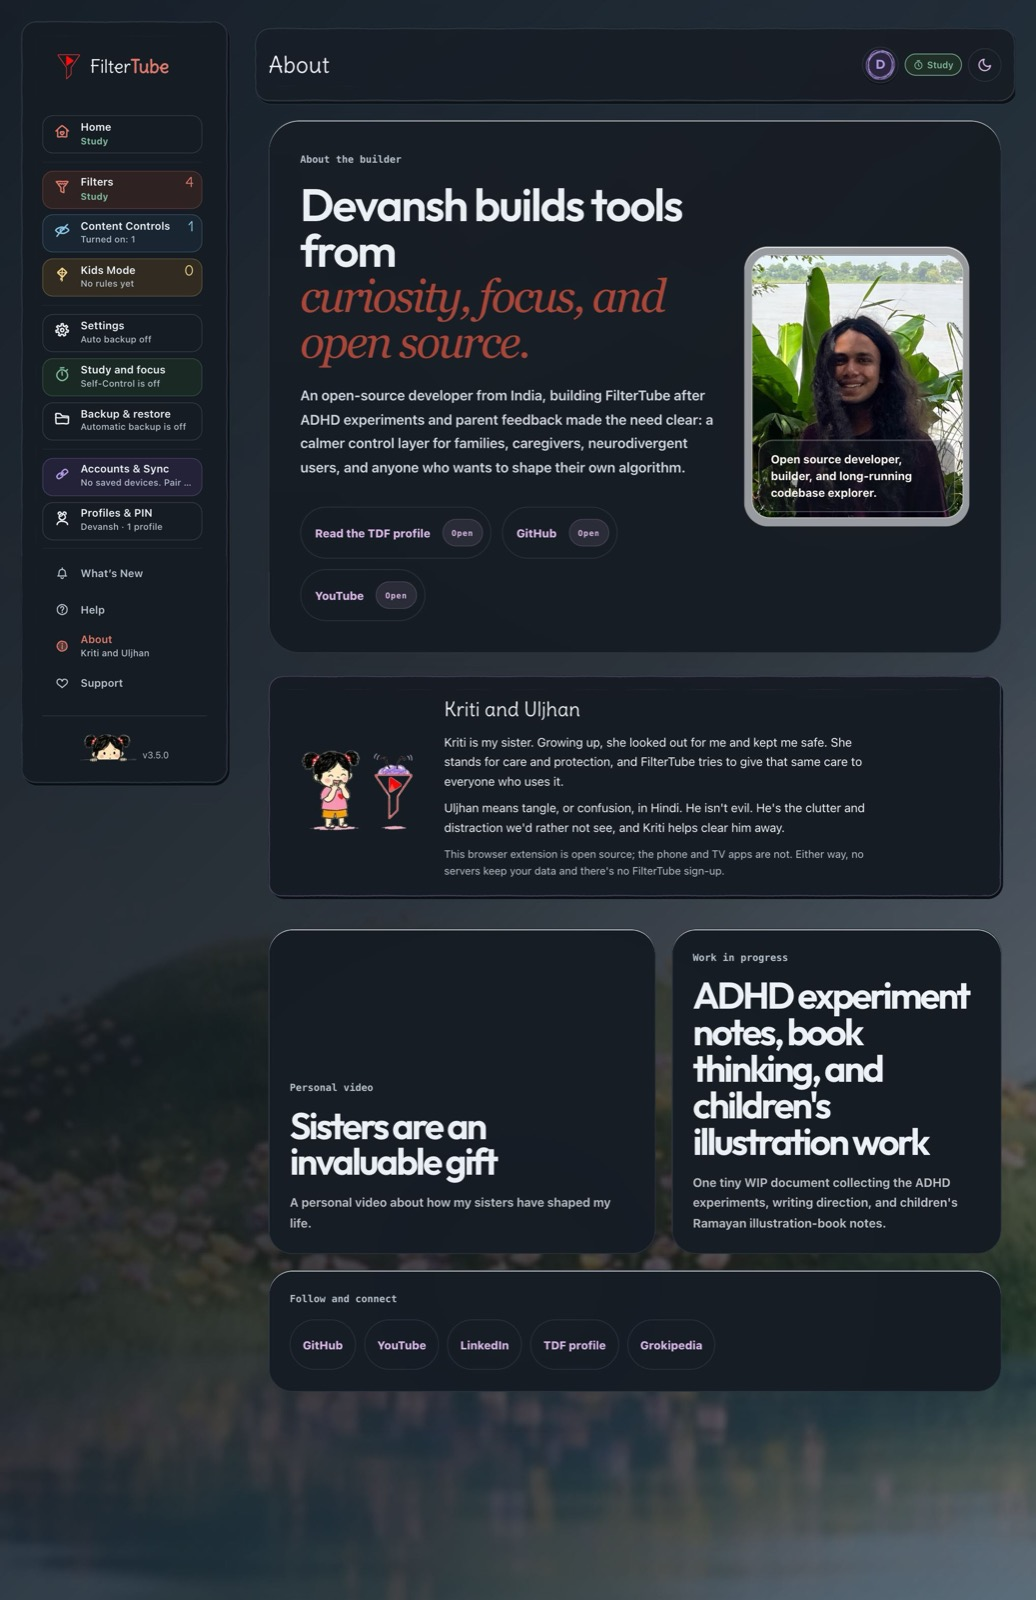
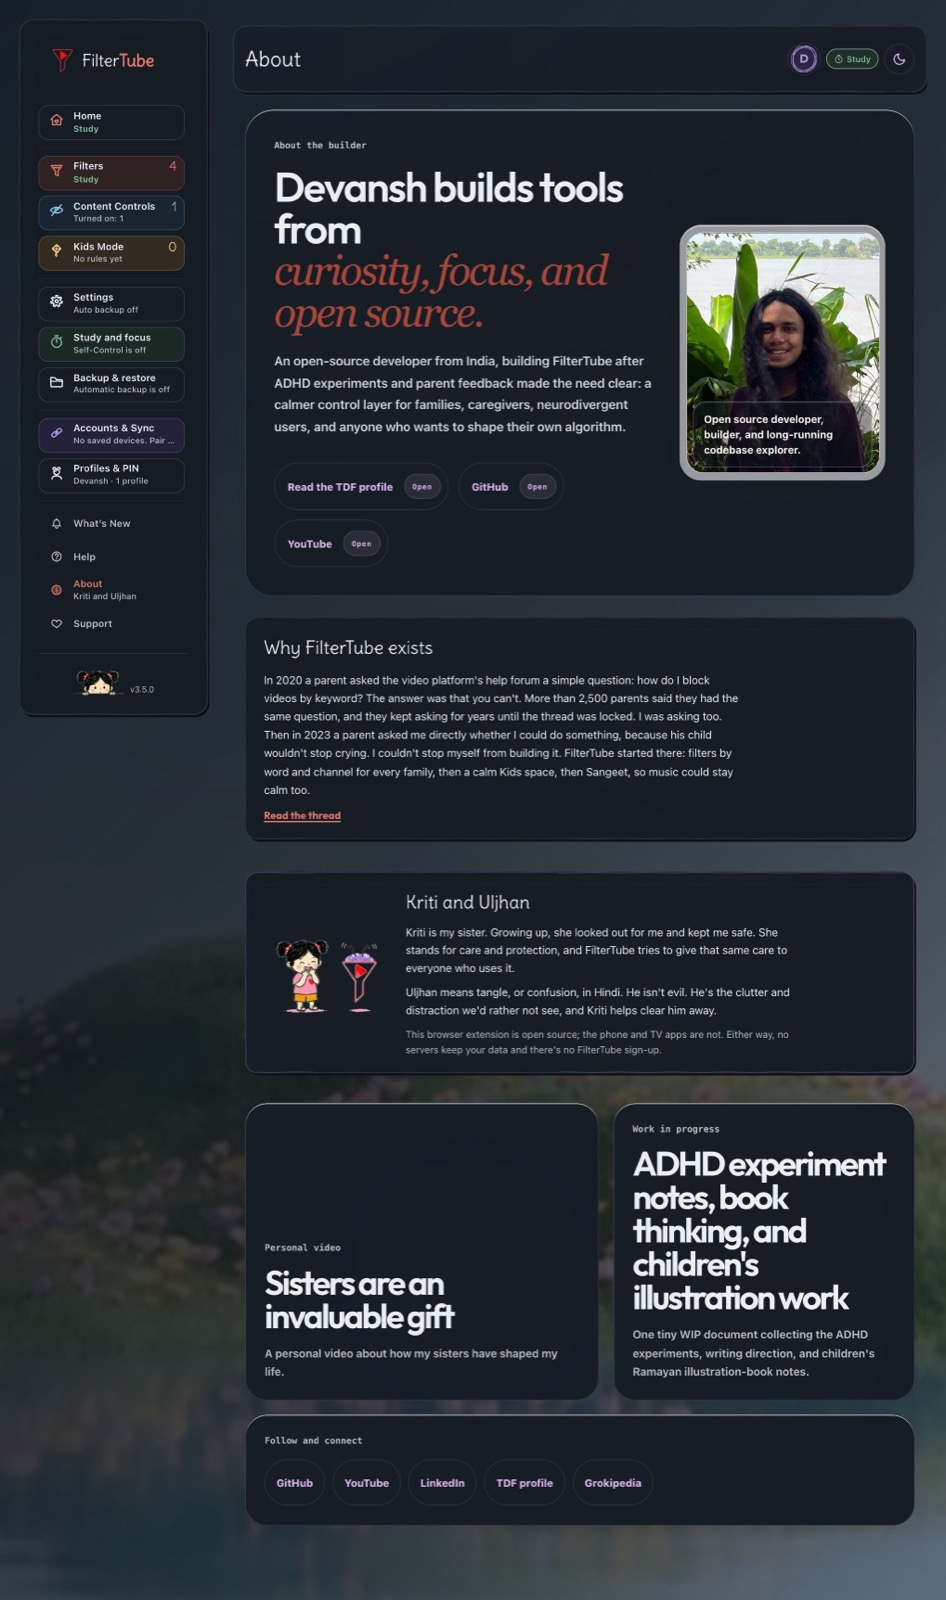
feat(about): Why FilterTube exists, before Kriti and Uljhan
The approved story, as the apps tell it: the 2020 help-forum question about
blocking by keyword that 2,500 parents asked until the thread was locked, the
parent in 2023 whose child would not stop crying, and then filters, the Kids
space and Sangeet. "Read the thread" opens the forum thread in a new tab. The
platform is not named in the text. Translated in all 38 catalogs; Sangeet stays
Sangeet.

diff --git a/html/tab-view.html b/html/tab-view.html
@@ -2690,6 +2690,12 @@
                             </figure>
                         </section>
 
+                        <section class="ft-about-why" aria-labelledby="ftAboutWhyTitle">
+                            <h3 id="ftAboutWhyTitle" class="ft-about-why__title" data-ft-i18n="about.why.title">Why FilterTube exists</h3>
+                            <p data-ft-i18n="about.why.body">In 2020 a parent asked the video platform's help forum a simple question: how do I block videos by keyword? The answer was that you can't. More than 2,500 parents said they had the same question, and they kept asking for years until the thread was locked. I was asking too. Then in 2023 a parent asked me directly whether I could do something, because his child wouldn't stop crying. I couldn't stop myself from building it. FilterTube started there: filters by word and channel for every family, then a calm Kids space, then Sangeet, so music could stay calm too.</p>
+                            <a class="ft-about-why__link" href="https://support.google.com/youtubekids/thread/54509605/how-to-block-videos-by-keyword-or-tag?hl=en" target="_blank" rel="noopener noreferrer" data-ft-i18n="about.why.link">Read the thread</a>
+                        </section>
+
                         <section class="ft-about-duo" data-ft-duo-story aria-labelledby="ftAboutDuoTitle">
                             <div class="ft-about-duo__art" aria-hidden="true">
                                 <img class="ft-about-duo__picture" src="../assets/images/mascots/duo_sieve_06.webp" alt="" width="180" height="180">

diff --git a/css/dashboard-home.css b/css/dashboard-home.css
@@ -580,3 +580,29 @@ body.ft-extension-surface #sidebarNav.is-studying .nav-item[data-pk-tint="home"]
   font-weight: 600;
 }
 .ft-home-greeting__mode[hidden] { display: none; }
+
+/* About: why FilterTube exists (the app's about_open_source story), before Kriti and Uljhan. */
+.ft-about-why {
+  display: grid;
+  gap: 12px;
+  margin: 8px 0 16px;
+  padding: 22px 26px;
+  background: var(--pk-paper);
+  border: 1.5px solid transparent;
+  border-image: var(--pk-edge-line) 20 / 18px / 0 round;
+  border-radius: 20px;
+  box-shadow: 2px 3px 0 0 var(--pk-desk);
+}
+.ft-about-why__title { margin: 0; font-family: var(--pk-font-hand); font-weight: 400; font-size: 26px; color: var(--pk-ink); }
+.ft-about-why p { margin: 0; max-width: 68ch; font-size: 16px; line-height: 1.65; color: var(--pk-ink); }
+.ft-about-why__link {
+  justify-self: start;
+  font-family: var(--pk-font-label);
+  font-weight: 700;
+  color: var(--pk-brick);
+  text-decoration: underline;
+  text-decoration-thickness: 1.5px;
+  text-underline-offset: 3px;
+}
+.ft-about-why__link:hover { color: var(--ft-color-brand-primary-hover); }
+.ft-about-why__link:focus-visible { outline: var(--ft-state-focus-width) solid var(--ft-state-focus-ring); outline-offset: var(--ft-state-focus-offset); border-radius: 4px; }

diff --git a/docs/design/2026-11-17-owner-fixes/dashboard/README.md b/docs/design/2026-11-17-owner-fixes/dashboard/README.md
@@ -38,6 +38,16 @@ The plan's window, 20:00 to 22:00, was running when these were taken, so the aft
 
 ## About (`after-about-*`)
 
+**Why FilterTube exists** comes first, in the app's approved words:
+
+- The 2020 help-forum question about blocking by keyword, which more than 2,500 parents asked until the thread was locked.
+- The parent in 2023 whose child wouldn't stop crying.
+- Then filters, the Kids space and Sangeet.
+
+"Read the thread" opens the forum thread in a new tab. The UI text never names the platform; only the link's URL does.
+
+**Kriti and Uljhan** follows:
+
 A short "Kriti and Uljhan" section, using the duo sieve's resting frame:
 
 - Kriti is my sister, who looked out for me growing up. She stands for care and protection.
